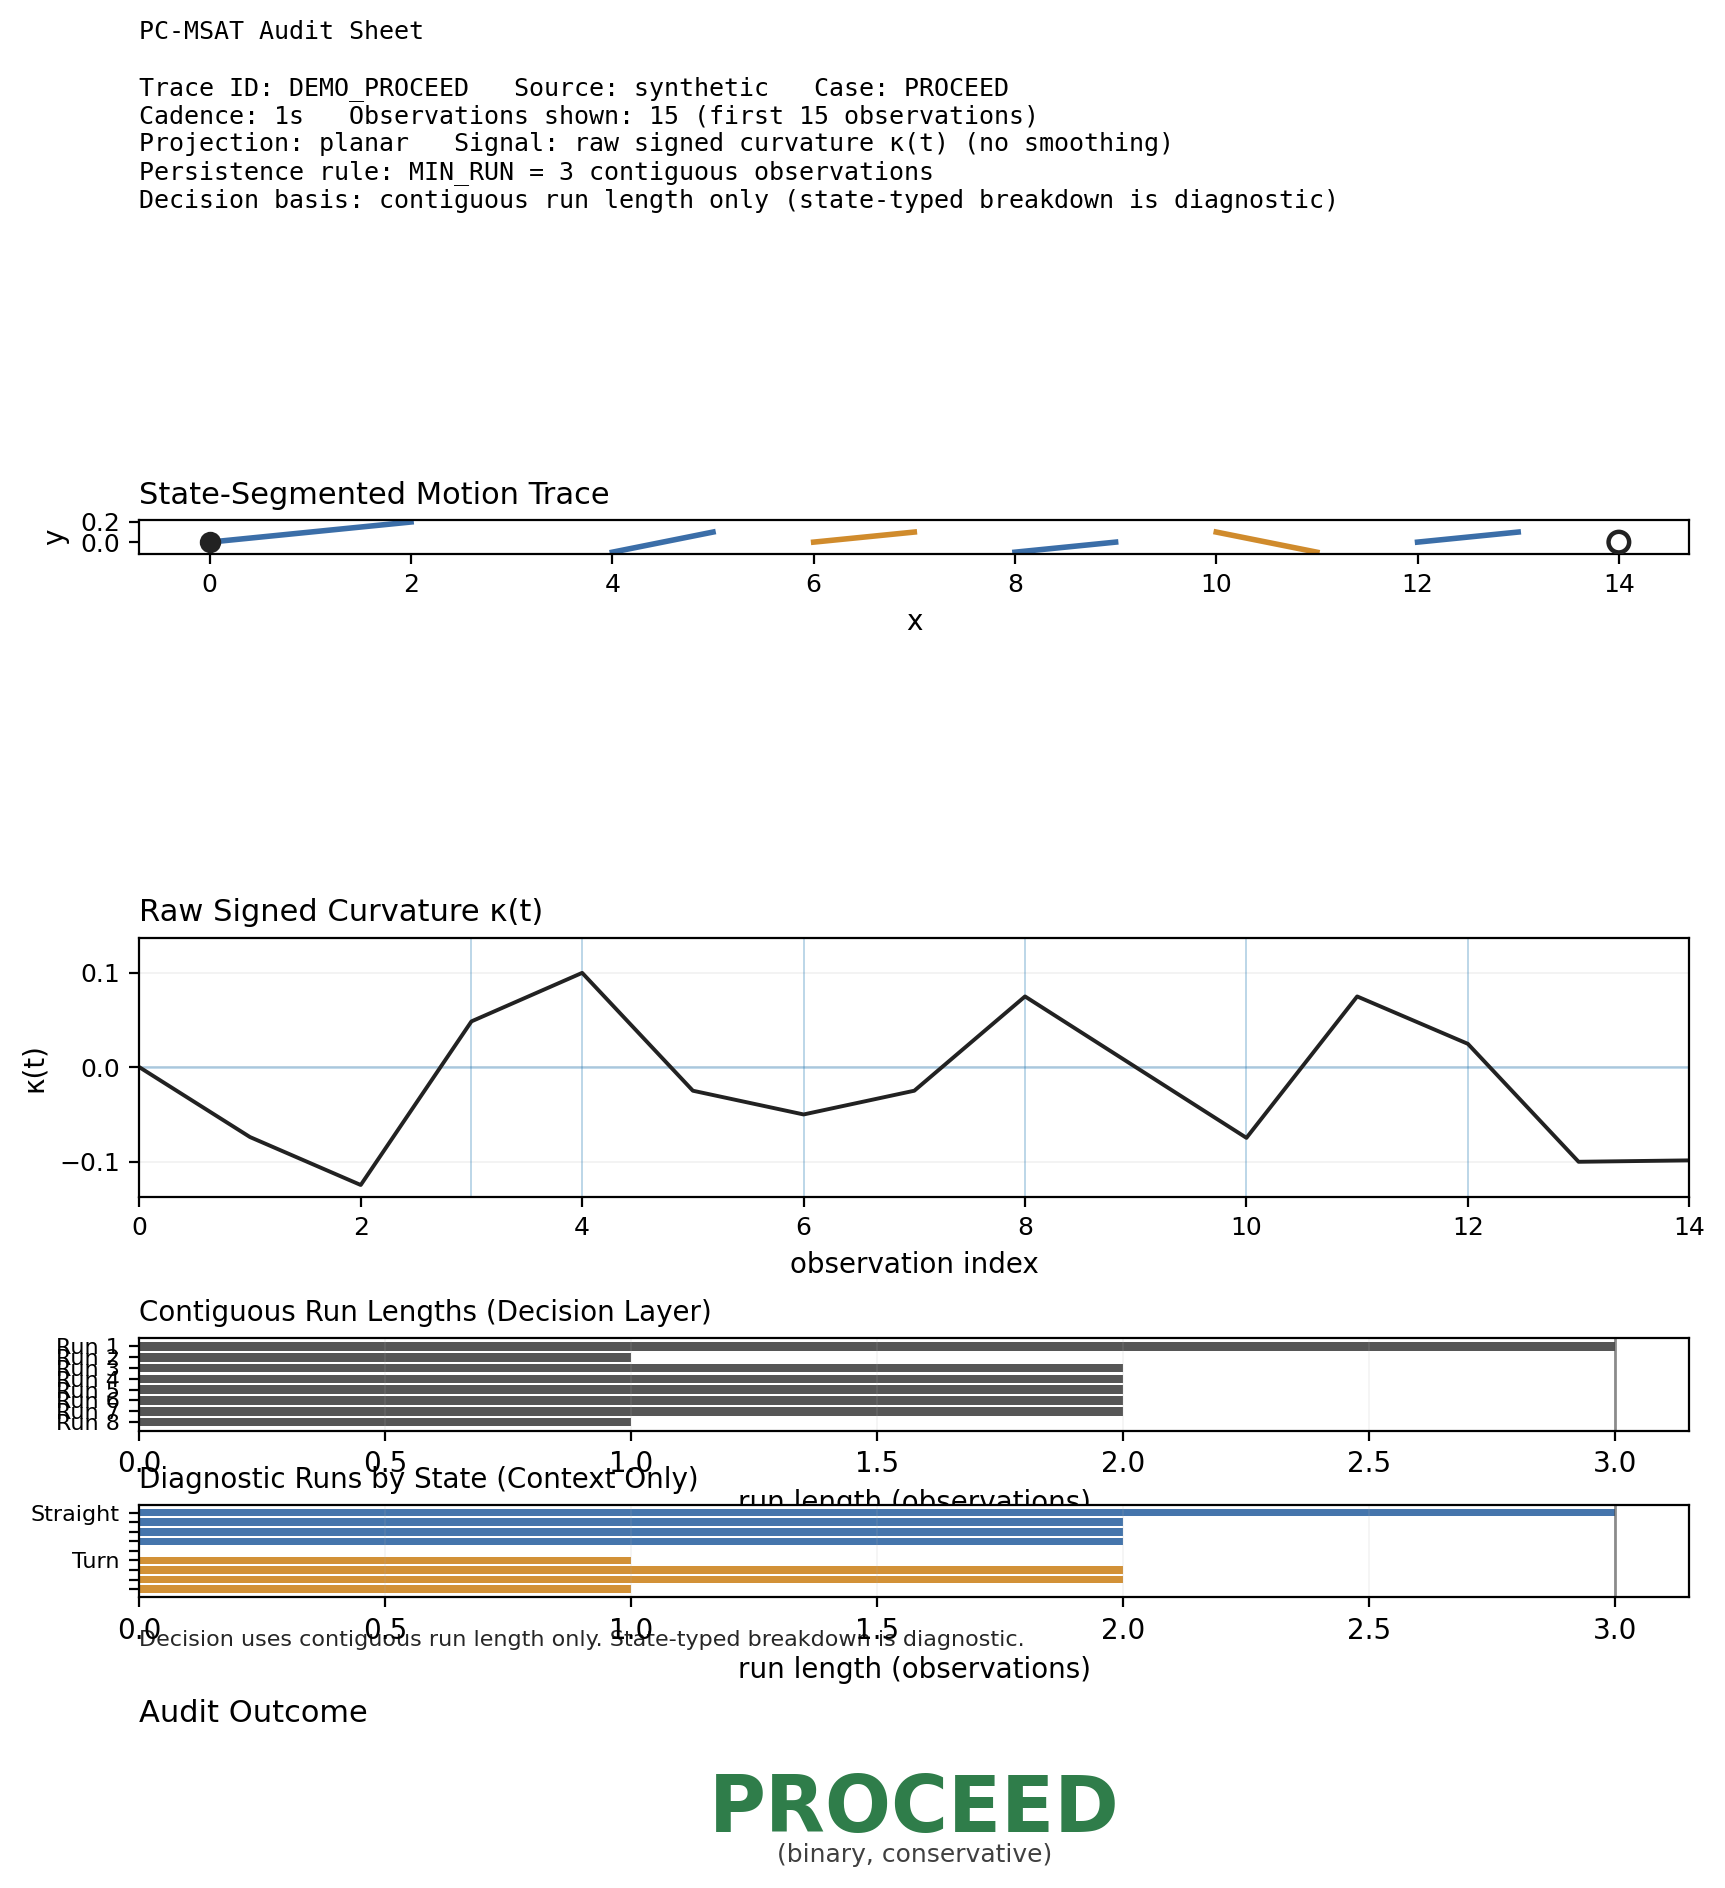
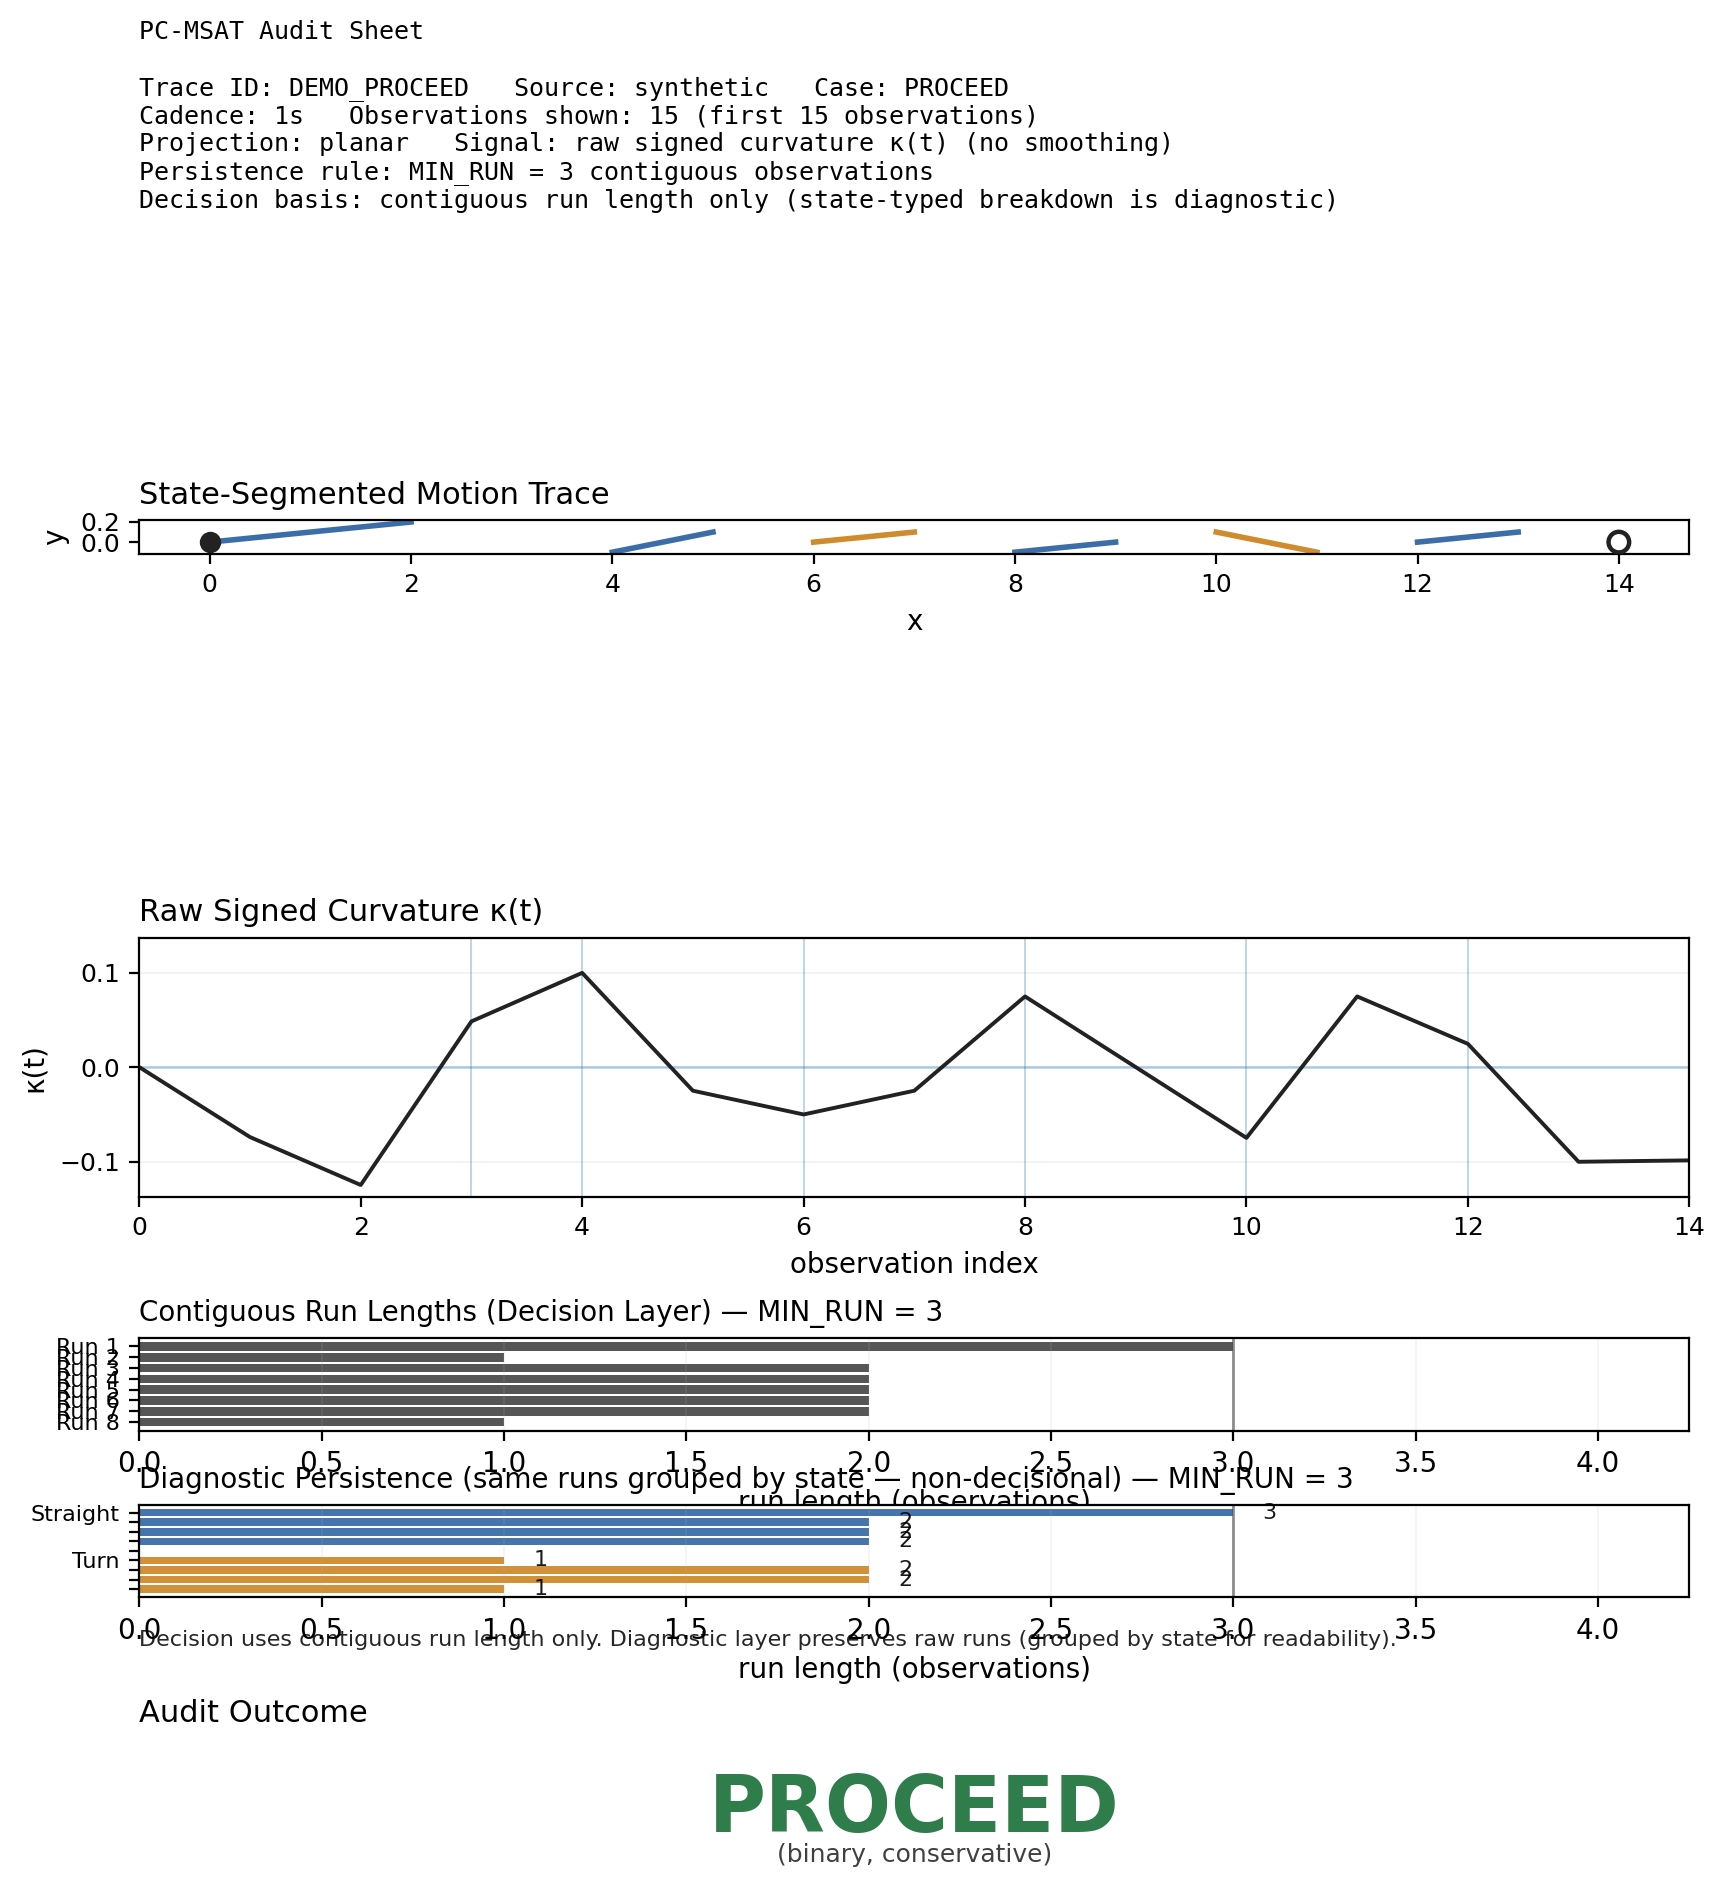
Renderer: add explicit MIN_RUN labeling and diagnostic run-length annotations

diff --git a/renderer/render_pcmsat_audit.py b/renderer/render_pcmsat_audit.py
@@ -193,20 +193,44 @@ def draw_curvature_panel(ax, kappa: np.ndarray, boundaries: List[int]) -> None:
 def draw_persistence_panel(
     ax_top, ax_bottom, runs: List[Tuple[int, str, int, int]], min_run: int
 ) -> None:
-    # ---- Decision layer (state-agnostic) ----
+    def _annotate_barh(ax, x: float, y: float, text: str, pad: float = 0.08) -> None:
+        """
+        Place a small label just to the right of a bar end.
+        Assumes x-limits are already set to include some breathing room.
+        """
+        ax.text(x + pad, y, text, va="center", ha="left", fontsize=8, alpha=0.9)
+
+    # Shared x-limit so both panels align and annotations have room.
     run_lengths = [length for (_, _, _, length) in runs]
+    max_len = max(run_lengths, default=0)
+    xmax = max(max_len, min_run) + 1.25  # breathing room for labels
+    if xmax <= 0:
+        xmax = 1.5
+
+    # -----------------------------
+    # Decision layer (state-agnostic)
+    # -----------------------------
     y = np.arange(len(run_lengths))
 
     ax_top.barh(y, run_lengths, color="#444444", alpha=0.9)
     ax_top.axvline(min_run, color="#444444", linewidth=1.0, alpha=0.6)
+    ax_top.set_xlim(0, xmax)
+
     ax_top.set_yticks(y)
     ax_top.set_yticklabels([f"Run {i+1}" for i in y], fontsize=8)
     ax_top.set_xlabel("run length (observations)")
-    ax_top.set_title("Contiguous Run Lengths (Decision Layer)", fontsize=10, loc="left")
+    ax_top.set_title(
+        f"Contiguous Run Lengths (Decision Layer) — MIN_RUN = {min_run}",
+        fontsize=10,
+        loc="left",
+    )
     ax_top.grid(axis="x", linestyle="-", linewidth=0.6, alpha=0.15)
     ax_top.invert_yaxis()
 
-    # ---- Diagnostic layer (state-typed; context only) ----
+    # ----------------------------------------
+    # Diagnostic layer (state-typed; context only)
+    # Grouped by state for readability; raw runs preserved.
+    # ----------------------------------------
     by_state: Dict[str, List[int]] = {s: [] for s in ALLOWED_STATES}
     for _, s, _, length in runs:
         by_state[s].append(length)
@@ -225,8 +249,8 @@ def draw_persistence_panel(
             diag_lengths.append(length)
             diag_labels.append(s if i == 0 else "")
 
-        # spacer row between state groups
-        diag_states.append("Straight")  # placeholder
+        # spacer row between state groups (transparent)
+        diag_states.append("Straight")  # placeholder; will be fully transparent
         diag_lengths.append(0)
         diag_labels.append("")
 
@@ -253,19 +277,28 @@ def draw_persistence_panel(
         bar.set_alpha(a)
 
     ax_bottom.axvline(min_run, color="#444444", linewidth=1.0, alpha=0.6)
+    ax_bottom.set_xlim(0, xmax)
+
     ax_bottom.set_yticks(y2)
     ax_bottom.set_yticklabels(diag_labels, fontsize=8)
     ax_bottom.set_xlabel("run length (observations)")
     ax_bottom.set_title(
-        "Diagnostic Runs by State (Context Only)", fontsize=10, loc="left"
+        f"Diagnostic Persistence (same runs grouped by state — non-decisional) — MIN_RUN = {min_run}",
+        fontsize=10,
+        loc="left",
     )
     ax_bottom.grid(axis="x", linestyle="-", linewidth=0.6, alpha=0.15)
     ax_bottom.invert_yaxis()
 
+    # ---- NEW: annotate run lengths on diagnostic bars (skip spacer rows) ----
+    for yi, length in zip(y2, diag_lengths):
+        if length > 0:
+            _annotate_barh(ax_bottom, float(length), float(yi), str(int(length)))
+
     ax_bottom.text(
         0.0,
         -0.35,
-        "Decision uses contiguous run length only. State-typed breakdown is diagnostic.",
+        "Decision uses contiguous run length only. Diagnostic layer preserves raw runs (grouped by state for readability).",
         transform=ax_bottom.transAxes,
         fontsize=8,
         va="top",
